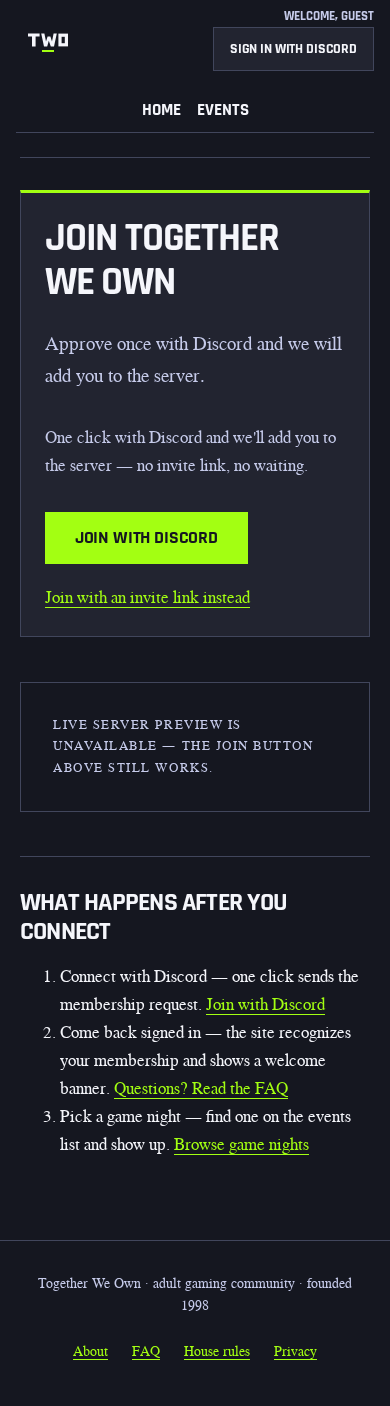
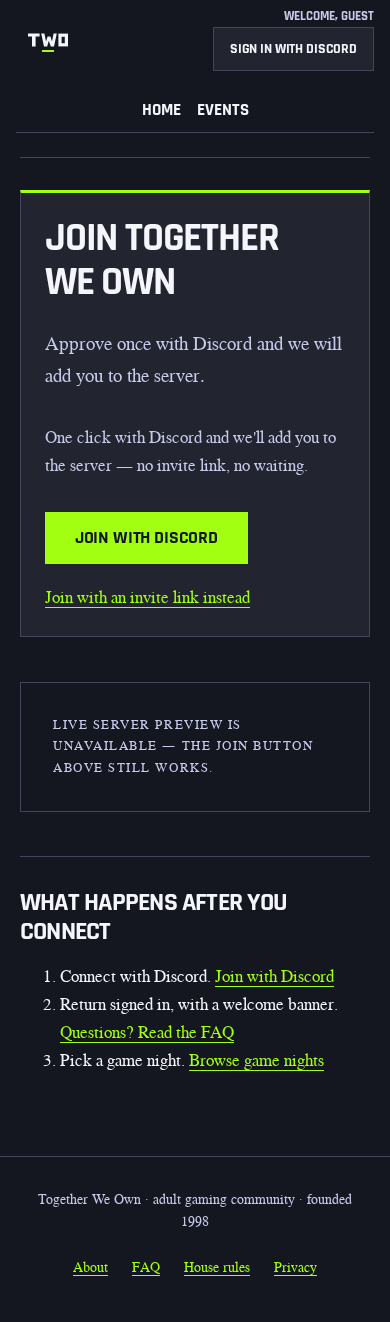
perf(join): keep expectations copy within the Kit budget
Shorten redundant step text on both render twins without changing their links or semantics. Refresh fixture screenshots with the built Kit root CSS.

diff --git a/src/screens/join.tsx b/src/screens/join.tsx
@@ -152,16 +152,13 @@ export const Join: FC<{
           <h2 id="join-expectations-heading">What happens after you connect</h2>
           <ol>
             <li data-testid="join-expectation-connect">
-              Connect with Discord — one click sends the membership request.{" "}
-              <a href="/join/discord">Join with Discord</a>
+              Connect with Discord. <a href="/join/discord">Join with Discord</a>
             </li>
             <li data-testid="join-expectation-recognized">
-              Come back signed in — the site recognizes your membership and shows a welcome banner.{" "}
-              <a href="/faq">Questions? Read the FAQ</a>
+              Return signed in, with a welcome banner. <a href="/faq">Questions? Read the FAQ</a>
             </li>
             <li data-testid="join-expectation-gamenight">
-              Pick a game night — find one on the events list and show up.{" "}
-              <a href="/events">Browse game nights</a>
+              Pick a game night. <a href="/events">Browse game nights</a>
             </li>
           </ol>
         </section>

diff --git a/web/src/routes/join/+page.svelte b/web/src/routes/join/+page.svelte
@@ -124,15 +124,15 @@ const island = '<script src="/islands/join-widget.js" defer></' + "script>";
     <h2 id="join-expectations-heading">What happens after you connect</h2>
     <ol>
       <li data-testid="join-expectation-connect">
-        Connect with Discord — one click sends the membership request.
+        Connect with Discord.
         <a href="/join/discord">Join with Discord</a>
       </li>
       <li data-testid="join-expectation-recognized">
-        Come back signed in — the site recognizes your membership and shows a welcome banner.
+        Return signed in, with a welcome banner.
         <a href="/faq">Questions? Read the FAQ</a>
       </li>
       <li data-testid="join-expectation-gamenight">
-        Pick a game night — find one on the events list and show up.
+        Pick a game night.
         <a href="/events">Browse game nights</a>
       </li>
     </ol>
